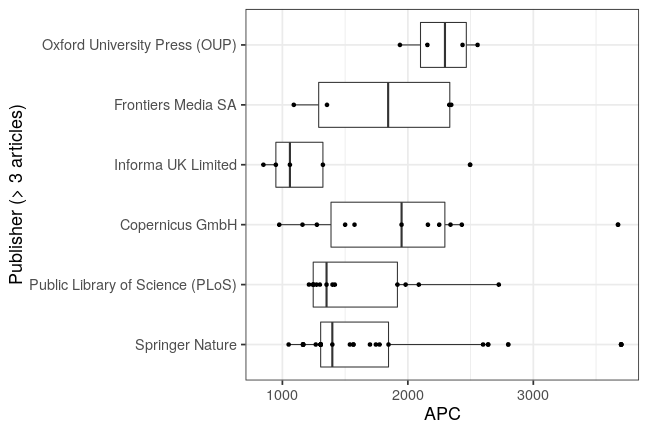
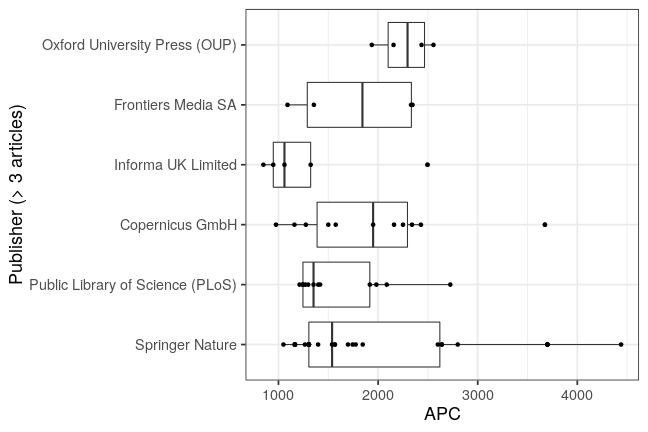
update: couperin apc data cea

diff --git a/_posts/2019-06-28-couperin.md b/_posts/2019-06-28-couperin.md
@@ -22,7 +22,7 @@ Contact Persons for Couperin are [Valerie Larroque](mailto:valerie.larroque@coup
 
 
 
-The new data provided by Couperin covers publication fees for 85 articles published at the CEA in 2015 and 2017. Total expenditure amounts to 156 135€ and the average fee is 1 837€.
+The new data provided by Couperin covers publication fees for 87 articles published at the CEA in 2015 and 2017. Total expenditure amounts to 164 275€ and the average fee is 1 888€.
 
 
 ## Overview
@@ -34,7 +34,7 @@ A detailed analysis of the contributed data set provides the following overview:
 
 |                                                | Articles| Fees paid in EURO| Mean Fee paid|
 |:-----------------------------------------------|--------:|-----------------:|-------------:|
-|Springer Nature                                 |       29|             52188|          1800|
+|Springer Nature                                 |       31|             60328|          1946|
 |Public Library of Science (PLoS)                |       13|             20400|          1569|
 |Copernicus GmbH                                 |       11|             21290|          1935|
 |Informa UK Limited                              |        5|              6676|          1335|
